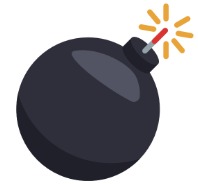
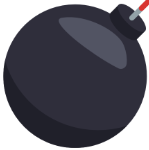
Adding collision detection

diff --git a/game.py b/game.py
@@ -1,3 +1,5 @@
+import pygame
+import random
 from findingBalloons import *
 from utils import *
 
@@ -27,17 +29,19 @@ balloon_images = {
     # "regular1": pygame.transform.scale(load_transparent_image("images/regular1.png"), BALLOON_SIZE),
     # "regular6": pygame.transform.scale(load_transparent_image("images/regular6.png"), BALLOON_SIZE_2),
     "regular2": pygame.transform.scale(load_transparent_image("images/regular2.png"), BALLOON_SIZE),
-    "regular4": pygame.transform.scale(load_transparent_image("images/regular4.png"), BALLOON_SIZE),
+    "number": pygame.transform.scale(load_transparent_image("images/regular4.png"), BALLOON_SIZE),
     "regular5": pygame.transform.scale(load_transparent_image("images/regular5.png"), BALLOON_SIZE),
-    "energy": pygame.transform.scale(load_transparent_image("images/energy1.png"), BALLOON_SIZE),
-    "bomb": pygame.transform.scale(load_transparent_image("images/bomb.png"), BALLOON_SIZE)
+    # "energy": pygame.transform.scale(load_transparent_image("images/energy1.png"), BALLOON_SIZE),
+    "bomb": pygame.transform.scale(load_transparent_image("images/bomb_1.png"), BALLOON_SIZE)
 }
 
 balloons = []
+balloon_id = 1
 spawn_timer = 0
 score = 0
 pts_src = []
-pts_src = [(300, 189), (287, 959), (1737, 969), (1731, 201)]
+previous_mapping = {}
+pts_src = [(300, 255), (266, 962), (1584, 961), (1564, 279)]
 camera_number = 0
 # pts_src = set_up_roi(camera_number, pts_src, pygame)
 # print(pts_src)
@@ -78,7 +82,8 @@ while running:
     if spawn_timer > 30:
         x_pos = random.randint(119, WIDTH - 237)
         balloon_type = random.choice(list(balloon_images.keys()))
-        balloons.append(Balloon(x_pos, HEIGHT, balloon_type, balloon_images))
+        balloons.append(Balloon(balloon_id, x_pos, HEIGHT, balloon_type, balloon_images))
+        balloon_id += 1
         spawn_timer = 0
 
     for balloon in balloons[:]:
@@ -100,13 +105,23 @@ while running:
 
         cv2.imshow("thresh_hold_frame", thresh_hold_frame)
         frame_contour, bounding_boxes = find_contours(thresh_hold_frame)
-        mapping = detect_ballon(warped_roi, bounding_boxes, BALLOON_SIZE)
-        for (x1, y1, x2, y2), label in mapping.items():
+        mapping = detect_ballon(warped_roi, bounding_boxes, balloons, BALLOON_SIZE)
+        for (x1, y1, x2, y2), balloon in mapping.items():
             color = (0, 255, 0)
-            if label == "Bomb":
+            font_color = (0, 0, 0)
+            if balloon.type == "bomb":
+                label = f"{balloon.type}_{balloon.id}"
                 color = (0, 0, 255)
-            elif label == "Energy":
+                font_color = (255, 255, 255)
+            elif balloon.type == f"energy":
+                label = f"{balloon.type}_{balloon.id}"
                 color = (255, 255, 0)
+            elif balloon.type == f"number":
+                label = f"{balloon.type}_{balloon.id}"
+                color = (255, 0, 0)
+                font_color = (255, 255, 255)
+            else:
+                label = f"{balloon.type}_{balloon.id}"
 
             box_width = x2 - x1
             box_height = y2 - y1
@@ -115,8 +130,21 @@ while running:
                 continue
 
             cv2.rectangle(warped_roi, (x1, y1), (x2, y2), color, 2)
-            cv2.rectangle(warped_roi, (x1, y1 - 20), (x1 + 80, y1), color, -1)
-            cv2.putText(warped_roi, label, (x1 + 5, y1 - 5), cv2.FONT_HERSHEY_SIMPLEX, 0.5, (255, 255, 255), 2)
+            cv2.rectangle(warped_roi, (x1, y1 - 25), (x1 + 120, y1), color, -1)
+            cv2.putText(warped_roi, label, (x1 + 5, y1 - 5), cv2.FONT_HERSHEY_SIMPLEX, 0.7, font_color, 2)
+
+        yellow_obj_detected = detect_yellow_obj(warped_roi)
+        collision = detect_collision(yellow_obj_detected, mapping)
+        if collision:
+            print(f"Type: {collision[1].type}_{collision[1].id}")
+            balloon = collision[1]
+            popped = balloon.hit()
+            if popped:
+                if balloon.type == "bomb":
+                    score -= 1
+                else:
+                    score += 1
+                balloons.remove(balloon)
 
         cv2.imshow("test", warped_roi)
     if cv2.waitKey(1) & 0xFF == ord('q'):

diff --git a/findingBalloons.py b/findingBalloons.py
@@ -1,4 +1,5 @@
 import numpy as np
+import math
 import cv2
 
 
@@ -86,7 +87,7 @@ def detect_bomb_balloon(balloon, box_size):
     cropped_mask = crop_blank_spaces(mask)
     mask = cv2.dilate(cropped_mask, np.ones((3, 3), dtype=np.uint8), iterations=2)
 
-    se_bomb = get_structure_elements("images/bomb.png", box_size)
+    se_bomb = get_structure_elements("images/bomb_1.png", box_size)
     cropped_se = crop_blank_spaces(se_bomb)
     erode_se = cv2.erode(cropped_se, np.ones((3, 3), dtype=np.uint8))
     match = cv2.erode(mask, erode_se)
@@ -112,7 +113,7 @@ def detect_number_balloon(balloon, box_size):
         return False
 
 
-def detect_ballon(frame, bounding_boxes, size=None):
+def detect_ballon(frame, bounding_boxes, balloons, size=None):
     result = {}
     for box in bounding_boxes:
         if len(bounding_boxes) > 0:
@@ -127,16 +128,71 @@ def detect_ballon(frame, bounding_boxes, size=None):
 
             extract_balloon = frame[y1:y2, x1:x2, :]
             lower_black_bgr = (0, 0, 0)
-            upper_black_bgr = (138, 138, 138)
+            upper_black_bgr = (140, 140, 140)
             mask = cv2.inRange(extract_balloon, lower_black_bgr, upper_black_bgr, cv2.THRESH_BINARY_INV)
             box_size = (box_width, box_height)
             cv2.imshow("extract_balloon_mask", mask)
             if detect_bomb_balloon(mask, box_size):
-                result[(x1, y1, x2, y2)] = "bomb"
+                label = "bomb"
             elif detect_energy_balloon(mask, box_size):
-                result[(x1, y1, x2, y2)] = "energy"
+                label = "energy"
             elif detect_number_balloon(mask, box_size):
-                result[(x1, y1, x2, y2)] = "balloon_2"
+                label = "number"
             else:
-                result[(x1, y1, x2, y2)] = "regular"
+                label = "regular"
+
+            closest_balloon = None
+            min_distance = float('inf')
+            for balloon in balloons:
+                distance = math.sqrt((x1 - balloon.x) ** 2 + (y1 - balloon.y) ** 2)
+                if distance < min_distance and label in balloon.type:
+                    min_distance = distance
+                    closest_balloon = balloon
+
+            if closest_balloon:
+                result[(x1, y1, x2, y2)] = closest_balloon
     return result
+
+
+def detect_yellow_obj(frame):
+    hsv = cv2.cvtColor(frame, cv2.COLOR_BGR2HSV)
+    yellow_mask = cv2.inRange(hsv, (10, 70, 70), (30, 255, 255))
+    yellow_mask = cv2.morphologyEx(yellow_mask, cv2.MORPH_OPEN, np.ones((3, 3), np.uint8))
+    yellow_mask = cv2.morphologyEx(yellow_mask, cv2.MORPH_CLOSE, np.ones((3, 3), np.uint8))
+    yellow_mask = cv2.dilate(yellow_mask, np.ones((30, 30), np.uint8), iterations=1)
+    cv2.imshow("yellow_mask", yellow_mask)
+
+    contours, _ = cv2.findContours(yellow_mask, cv2.RETR_EXTERNAL, cv2.CHAIN_APPROX_SIMPLE)
+
+    if len(contours) > 0:
+        combined_contour = np.vstack(contours)
+
+        x, y, w, h = cv2.boundingRect(combined_contour)
+
+        cv2.rectangle(frame, (x, y), (x + w, y + h), (0, 255, 0), 2)
+
+        center_x = x + w // 2
+        center_y = y + h // 2
+
+        temp = frame.copy()
+        temp[yellow_mask != 255] = (0, 0, 0)
+        cv2.imshow("yellow_obj", temp)
+
+        return center_x, center_y
+    return None, None
+
+
+def detect_collision(center, mapping):
+    if center is None:
+        return None
+
+    cx, cy = center
+
+    try:
+        for (x1, y1, x2, y2), balloon in mapping.items():
+            if x1 <= cx <= x2 and y1 <= cy <= y2:
+                return (x1, y1, x2, y2), balloon
+    except Exception as ex:
+        return None
+
+    return None

diff --git a/utils.py b/utils.py
@@ -1,14 +1,13 @@
-import random
-import numpy as np
 import cv2
-import pygame
+
 
 WHITE = (255, 255, 255)
 BLACK = (0, 0, 0)
 
 
 class Balloon:
-    def __init__(self, x, y, balloon_type, balloon_images):
+    def __init__(self, id, x, y, balloon_type, balloon_images):
+        self.id = id
         self.x = x
         self.y = y
         self.speed = 20
@@ -16,7 +15,7 @@ class Balloon:
         self.image = balloon_images[balloon_type]
         self.balloon_images = balloon_images
         self.rect = self.image.get_rect(topleft=(self.x, self.y))
-        self.hits_required = 2 if balloon_type == "regular4" or "regular3" else 1
+        self.hits_required = 2 if balloon_type == "regular4" else 1
 
     def move(self):
         self.y -= self.speed
@@ -51,7 +50,6 @@ def set_up_roi(camera_number, pts_src, pygame):
     cv2.namedWindow("Camera")
     cv2.setMouseCallback("Camera", click_event)
 
-    # Wait for ROI Selection
     while len(pts_src) < 4:
         ret, frame = cap.read()
         if not ret:
